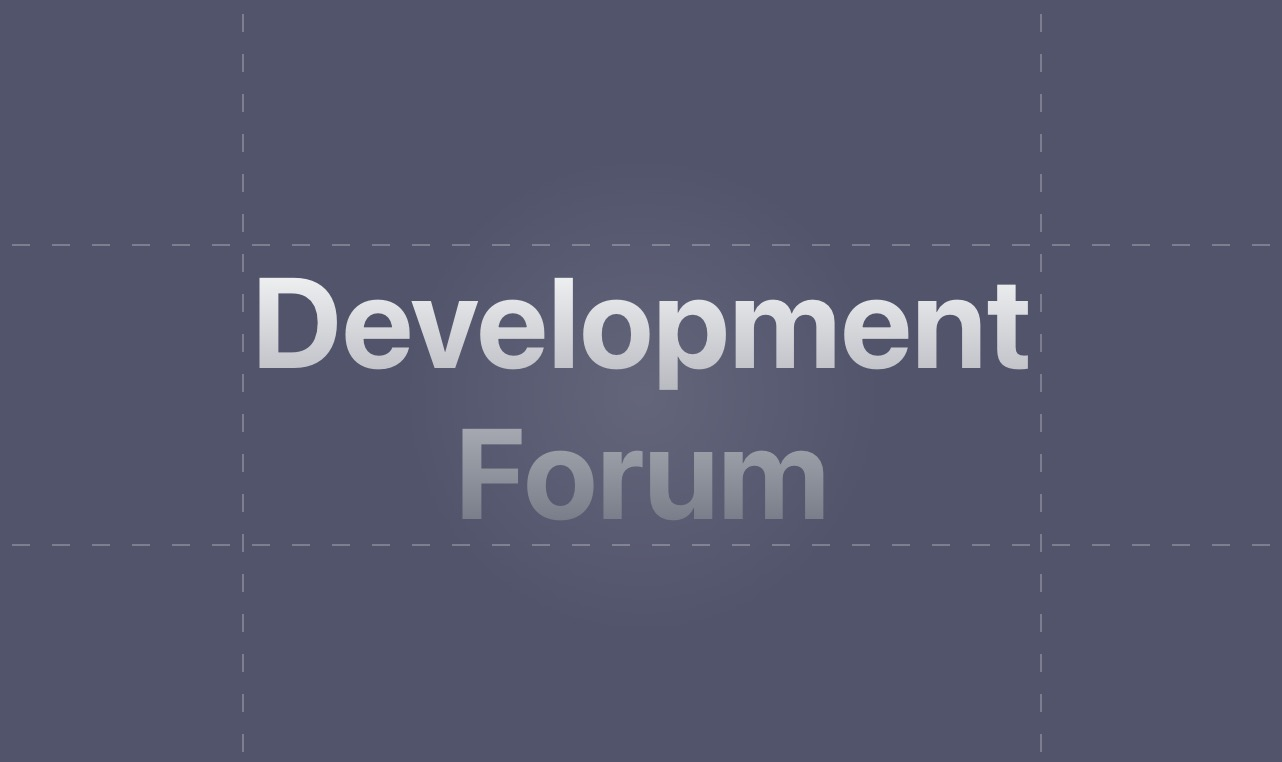
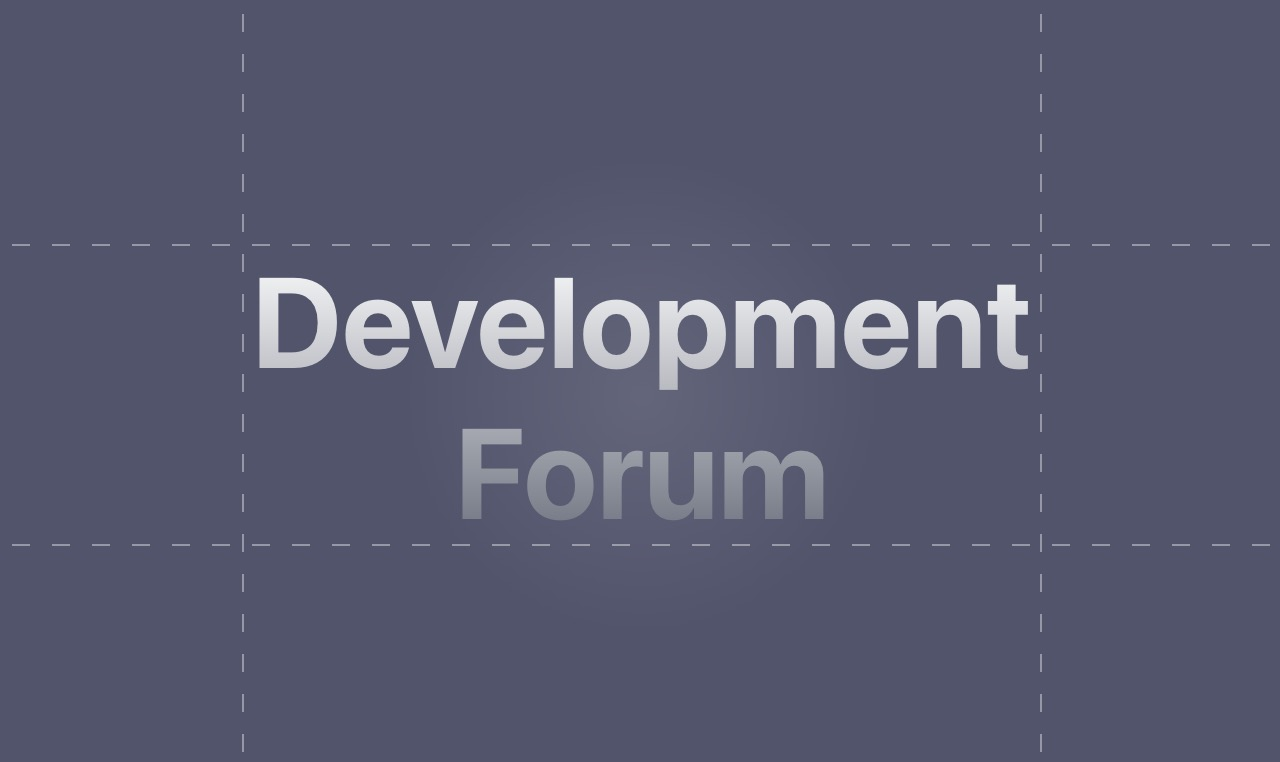
chore: Increase grid line transparency

diff --git a/src/views/ThumbnailView.vue b/src/views/ThumbnailView.vue
@@ -45,8 +45,8 @@
       top: calc(#{$offset} / 2 * -1);
       background: linear-gradient(
         to bottom,
-        hsla(0, 0%, 100%, 0.25),
-        hsla(0, 0%, 100%, 0.25) 45%,
+        hsla(0, 0%, 100%, 0.4),
+        hsla(0, 0%, 100%, 0.4) 45%,
         // odstęp między liniami
         transparent 0
       );
@@ -62,8 +62,8 @@
       left: calc(#{$offset} / 2 * -1);
       background: linear-gradient(
         to right,
-        hsla(0, 0%, 100%, 0.25),
-        hsla(0, 0%, 100%, 0.25) 45%,
+        hsla(0, 0%, 100%, 0.4),
+        hsla(0, 0%, 100%, 0.4) 45%,
         // odstęp między liniami
         transparent 0
       );
